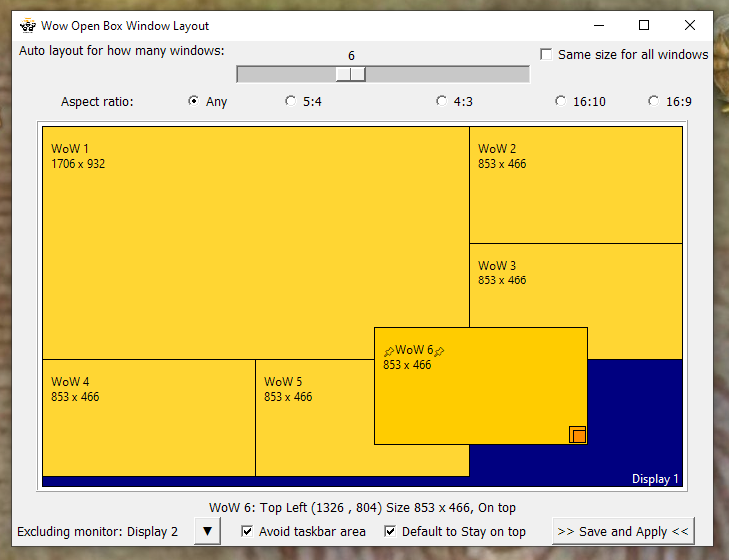
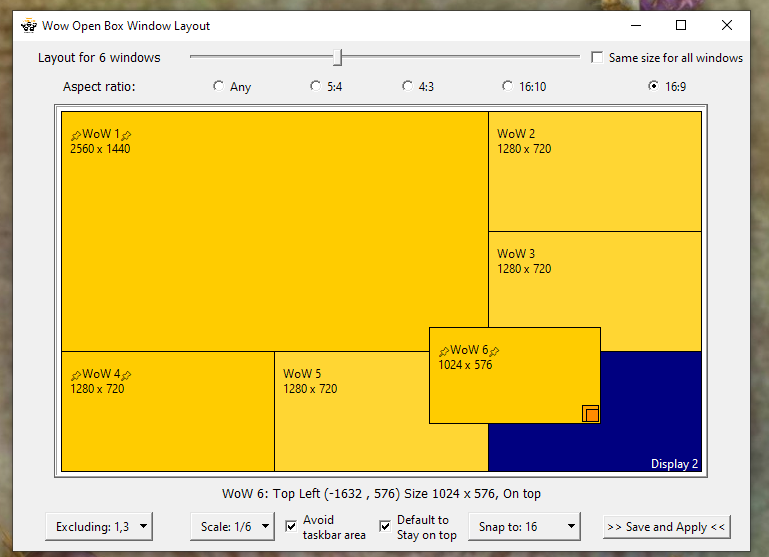
updates for 1.9

diff --git a/help.md b/help.md
@@ -3,13 +3,20 @@
 ## Basic information
 ![Window Layout](sshotWindowLayout.png)
 
-1. Use the "Window Layout" UI to setup your Windows automatically (and you can now tweak the intelligent auto layouts by dragging any window to reposition it or resize it by dragging the orange bottom right corner and toggle "Stay on top" by clicking on the text) _or_
+1. Use the "Window Layout" UI to setup your Windows automatically. And you can tweak the intelligent auto layouts by:
+    + Dragging any window to reposition it
+    + Resize it by dragging the orange bottom right corner
+    + Toggle "Stay on top" by clicking on the text
+    + Use the snap to grid feature to constraint the position
+    + Use the arrow keys for precise movement by 1 pixel
 
-1. Manually select the Size you want your next window to be(*)
+1. _and/or tweak it using:_ Manual Setup (from main window):
 
-1. Manually select the position you want it to be at(*)
+    1. Manually select the Size you want your next window to be(*)
 
-1. Decide if that window should stay on top of others. you can use a hotkey (default `Ctrl-Shit-T`) to toggle that setting on the fly.(*)
+    1. Manually select the position you want it to be at(*)
+
+    1. Decide if that window should stay on top of others. you can use a hotkey (default `Ctrl-Shit-T`) to toggle that setting on the fly.(*)
 
 1. Use the Bnet launcher to start your wow windows, make them "Fullscreen (Windowed)" so they are border and titlebar less and exact dimension of the windows.
 
